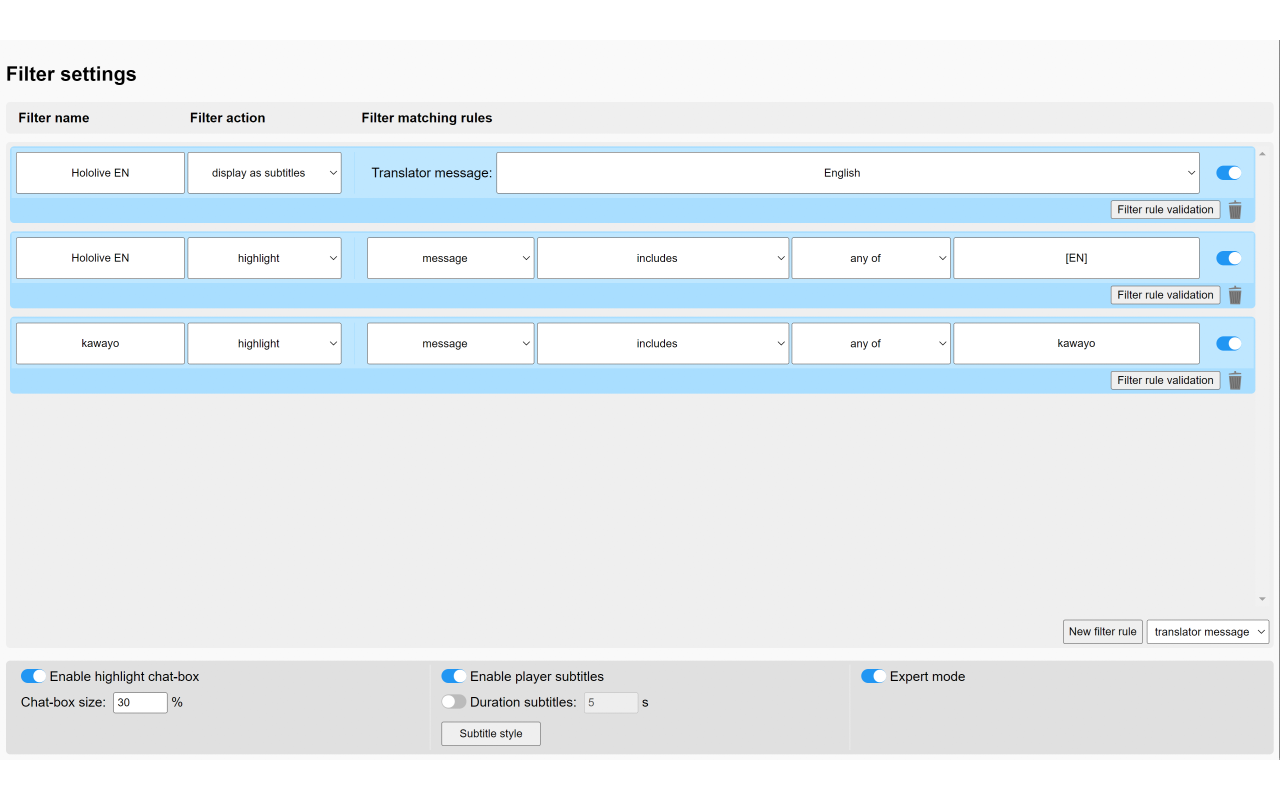
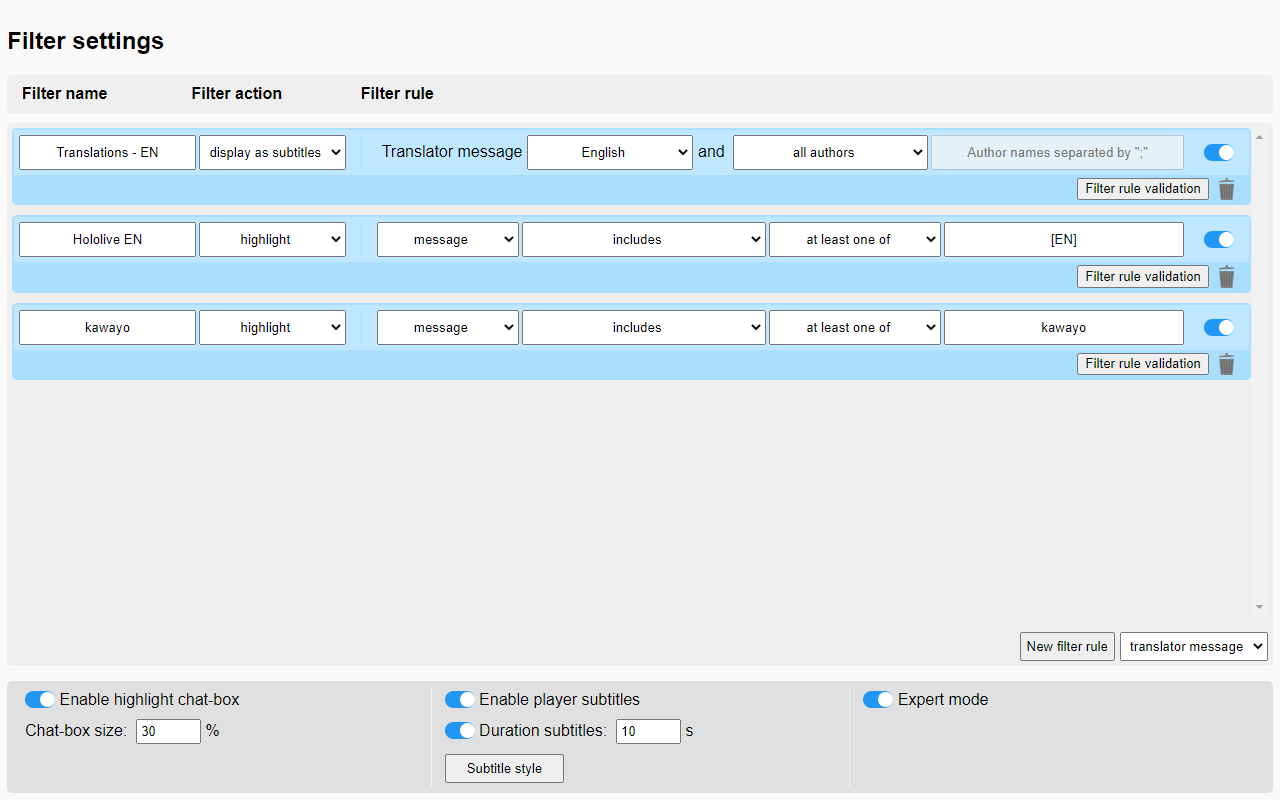
Added support for JP translator languages Added names translation for filters

Changed region(s): [[0.0, 0.0312, 1.0, 0.5], [0.0, 0.75, 1.0, 1.0]]

diff --git a/add-on/storage.js b/add-on/storage.js
@@ -33,18 +33,39 @@ function sync_get(array, callback) {
                     }
                     break;
                 case "filters":
-                    result.filters = result.filters || [{
-                        name: "Translations - EN",
-                        type: "subtitles",
-                        data: new TranslationLanguage("en", new Authors("all"), new TextElement([])).json(),
-                        enable: true
-                    },
-                    {
-                        name: "Hololive EN",
-                        type: "highlight",
-                        data: new StringRegex("includes", new StringOption("message"), new TextElement("[EN]"), new LogicalArray("some")).json(),
-                        enable: true
-                    }];
+                    if (chrome.i18n.getUILanguage().startsWith("ja")) {
+                        result.filters = result.filters || [{
+                            name: `${i18n("filterTranslation")} - JA`,
+                            type: "subtitles",
+                            data: new TranslationLanguage("ja", new Authors("all"), new TextElement([])).json(),
+                            enable: true
+                        },
+                        {
+                            name: `${i18n("filterTranslation")} - JA`,
+                            type: "highlight",
+                            data: new StringRegex("includes", new StringOption("message"), new TextElement("[JP]; [JA]"), new LogicalArray("some")).json(),
+                            enable: true
+                        },
+                        {
+                            name: `${i18n("delete")} - EN`,
+                            type: "delete",
+                            data: new TranslationLanguage("en", new Authors("all"), new TextElement([])).json(),
+                            enable: true
+                        }];
+                    } else {
+                        result.filters = result.filters || [{
+                            name: `${i18n("filterTranslation")} - EN`,
+                            type: "subtitles",
+                            data: new TranslationLanguage("en", new Authors("all"), new TextElement([])).json(),
+                            enable: true
+                        },
+                        {
+                            name: `${i18n("filterTranslation")} -  EN`,
+                            type: "highlight",
+                            data: new StringRegex("includes", new StringOption("message"), new TextElement("[EN]"), new LogicalArray("some")).json(),
+                            enable: true
+                        }];
+                    }
                     break;
                 case "enableOverlay":
                     if (result.enableOverlay === undefined) {

diff --git a/add-on/settings/filters/filter_list.js b/add-on/settings/filters/filter_list.js
@@ -151,16 +151,25 @@ function newFilter(id) {
     switch (id) {
         case "filter_translation":
             // Language translation
-            return {
-                name: "Translations - EN",
-                type: "subtitles",
-                data: new TranslationLanguage("en", new Authors("all"), new TextElement([])),
-                enable: true
-            };
+            if (chrome.i18n.getUILanguage().startsWith("ja")) {
+                return {
+                    name: `${i18n("filterTranslation")} - JA`,
+                    type: "subtitles",
+                    data: new TranslationLanguage("ja", new Authors("all"), new TextElement([])),
+                    enable: true
+                };
+            } else {
+                return {
+                    name: `${i18n("filterTranslation")} - EN`,
+                    type: "subtitles",
+                    data: new TranslationLanguage("en", new Authors("all"), new TextElement([])),
+                    enable: true
+                };
+            }
         case "filter_language":
             // Language
             return {
-                name: "Characters - Latin",
+                name: `${i18n("filterLanguage")}`,
                 type: "highlight",
                 data: new Language("latin"),
                 enable: true
@@ -168,7 +177,7 @@ function newFilter(id) {
         // One logical block
         case "filter_1":
             return {
-                name: "",
+                name: i18n("filter1"),
                 type: "highlight",
                 data: new StringRegex("includes", new StringOption("message"), new TextElement([]), new LogicalArray("some")),
                 enable: true
@@ -176,7 +185,7 @@ function newFilter(id) {
         // Two logical blocks with logical and
         case "filter_2":
             return {
-                name: "",
+                name: i18n("filter2"),
                 type: "highlight",
                 data: new LogicalBinary("and", new StringRegex("includes", new StringOption("author"), new TextElement([]), new LogicalArray("some")), new StringRegex("includes", new StringOption("message"), new TextElement([]), new LogicalArray("some"))),
                 enable: true

diff --git a/add-on/filter_data.js b/add-on/filter_data.js
@@ -314,7 +314,14 @@ class TranslationLanguage extends BaseSelect {
 
         let author = data["author"].toLocaleLowerCase();
 
-        let authorTranslation = string.toLocaleLowerCase().includes(`[${this.name}]`);
+        let name = this.name;
+
+        // Japanese ja or jp
+        if (name == "ja") {
+            name = "(ja|jp)";
+        }
+
+        let authorTranslation = string.toLocaleLowerCase().match(new RegExp(`\\[${name}\\]`)) !== null;
         switch (this.authors.element.value) {
             case "all":
                 return authorTranslation;
